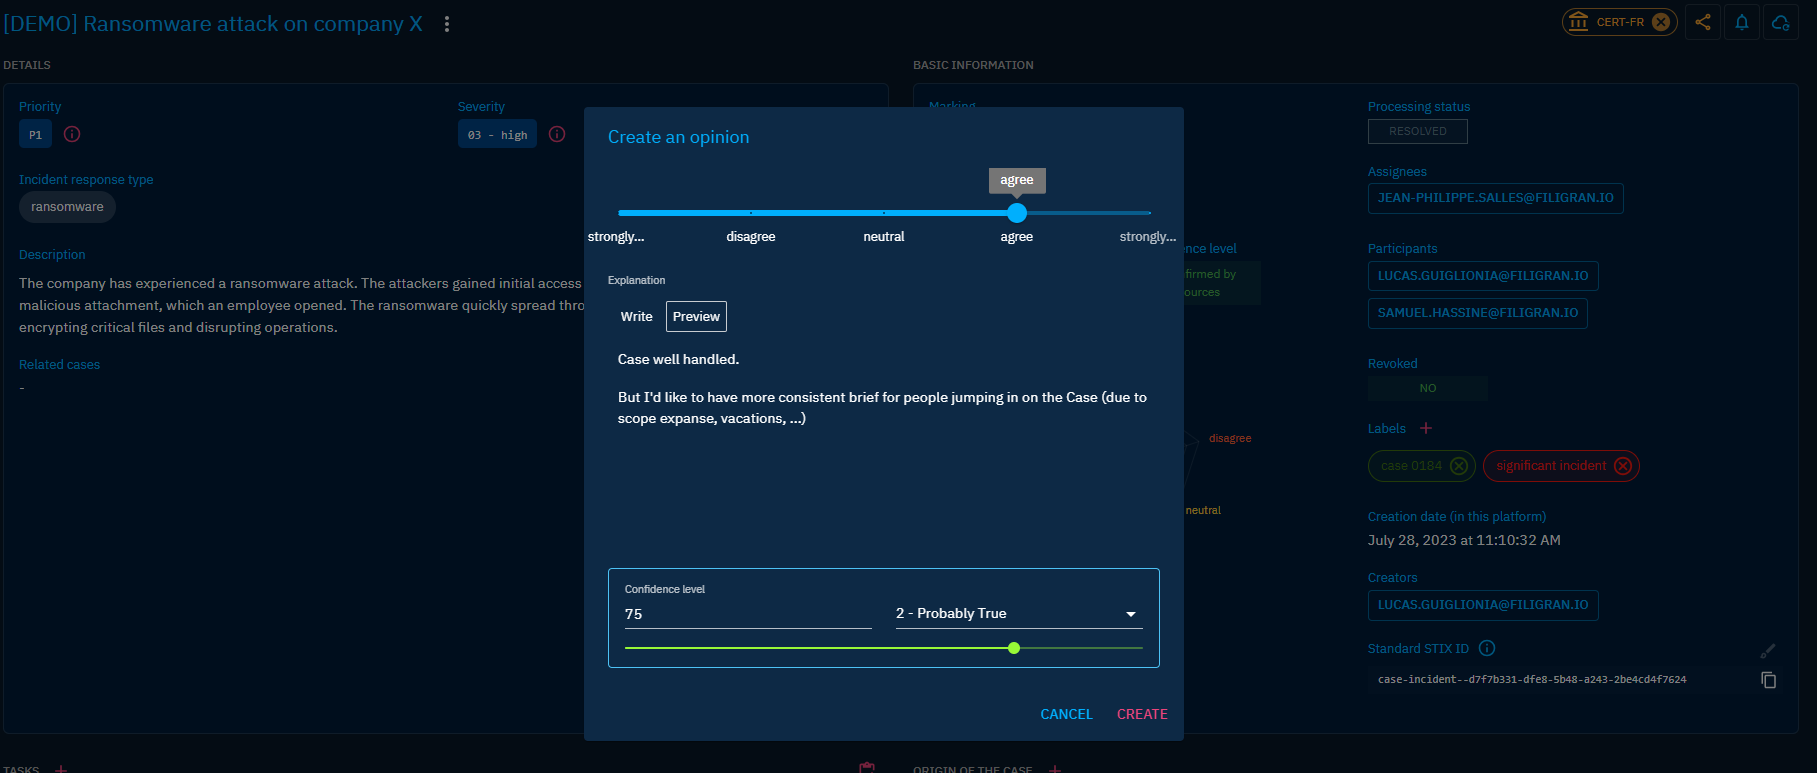
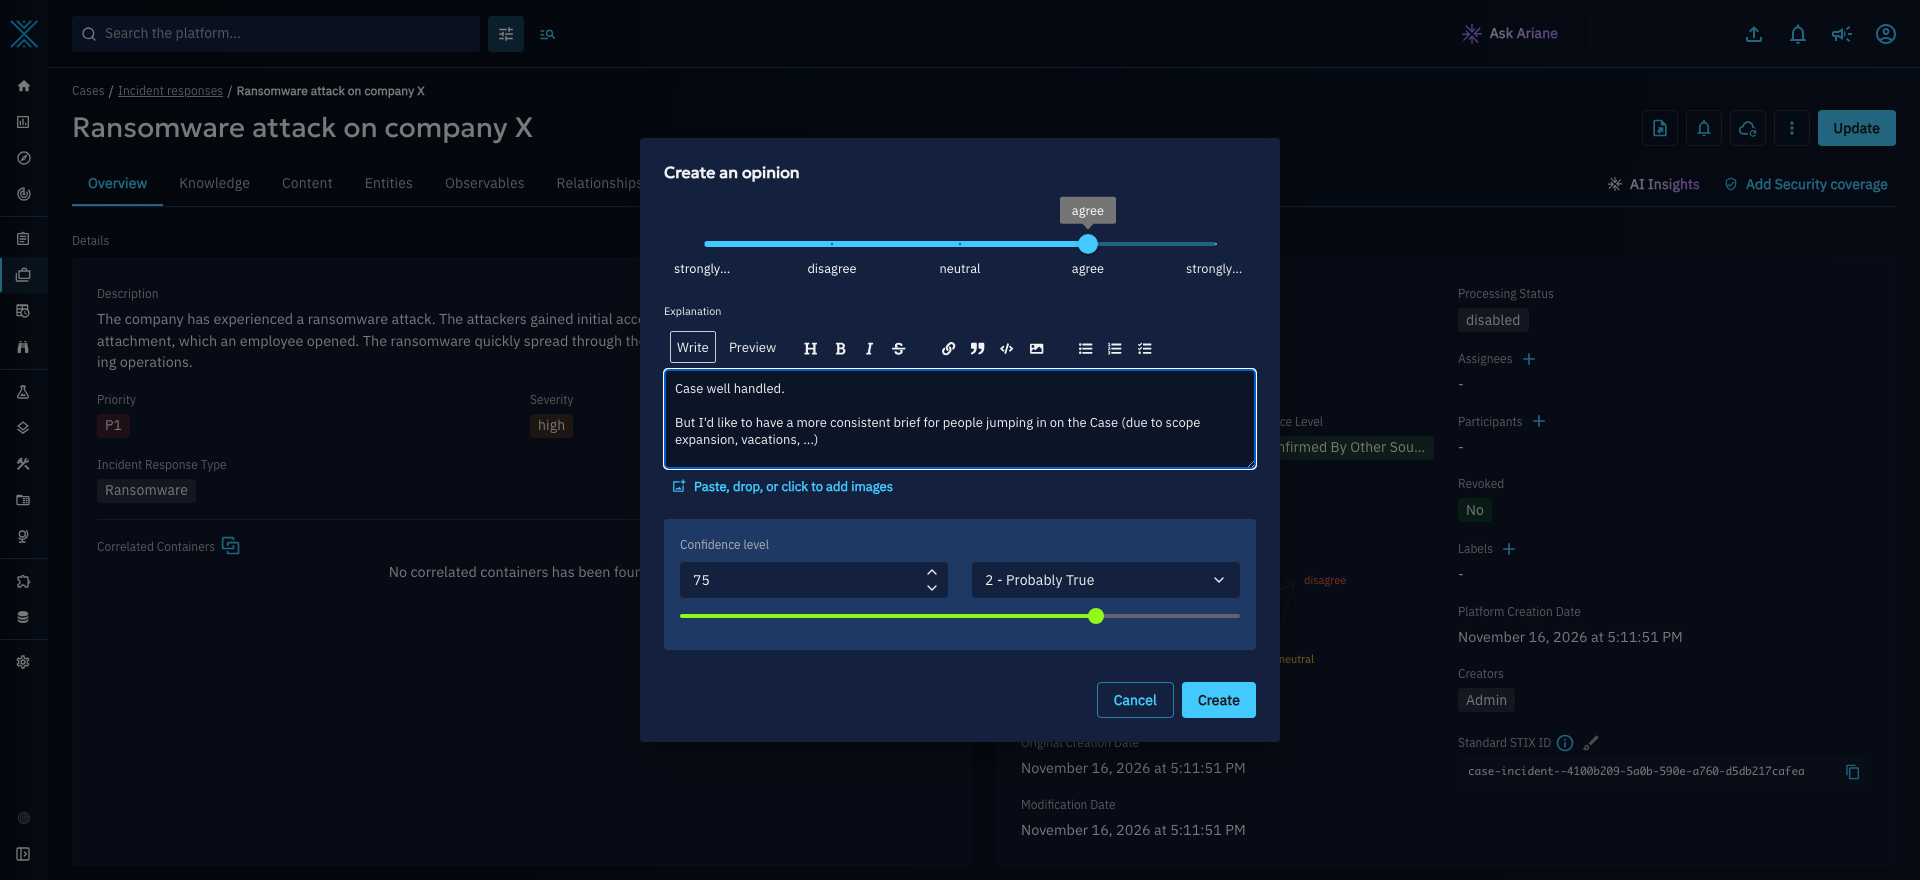
docs(usage): update the Case opinion screenshot (#20027)
Replace the 2023 "Create an opinion" screenshot with the current UI, and fix
its alt text.

diff --git a/docs/docs/usage/case-management.md b/docs/docs/usage/case-management.md
@@ -26,7 +26,7 @@ As with other objects in OpenCTI, you can also leverage the `Notes` to add some 
 
 You can also use `Opinions` to collect how the Case has been handled, helping you to build Lessons Learned.
 
-![Incident Responses' list](assets/case-opinion.png)
+![Create an opinion on a Case](assets/case-opinion.png)
 
 To trace the evolution of your Case and define specific resolution workflows, you can use the `Status` (that can be define in Settings/Taxonomies/Status templates).
 
